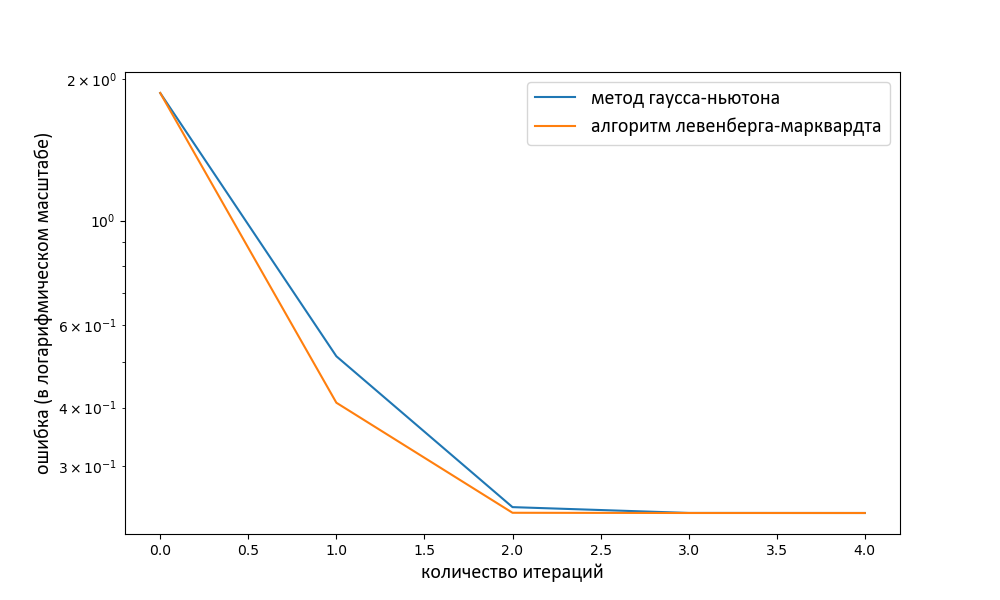
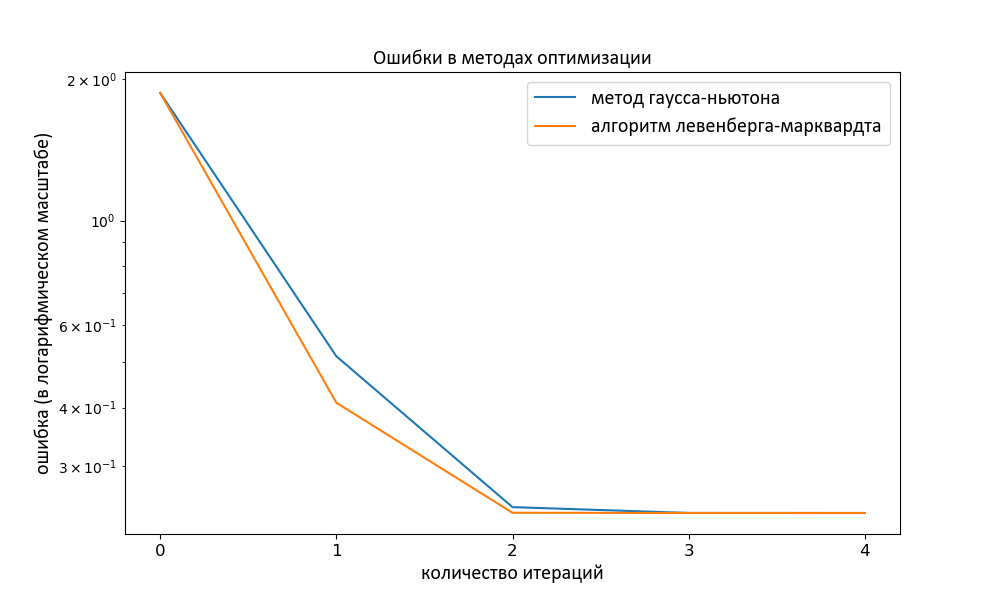
version 2.2 - допилил графики
теперь нет дробных значений на оси итераций и есть тайтлы

diff --git a/cosmology.py b/cosmology.py
@@ -68,6 +68,8 @@ if __name__ == '__main__':
     style_default.set_family(['Calibri', 'Helvetica', 'Arial', 'serif'])
     fig = plt.figure(figsize=(10, 6))
     ax1 = fig.add_subplot(1, 1, 1)
+    plt.title('Модель зависимости модуля расстояния от красного смещения',
+              fontproperties=style_default)
     # если я всё правильно помню, обе оси в безразмерных величинах
     # если вдруг нет, не бейте сильно, это по астрономии пробел
     ax1.set_xlabel('z, красное смещение', fontproperties=style_default)
@@ -82,11 +84,15 @@ if __name__ == '__main__':
 
     fig = plt.figure(figsize=(10, 6))
     ax2 = fig.add_subplot(1, 1, 1)
+    plt.title('Ошибки в методах оптимизации',
+              fontproperties=style_default)
     ax2.set_xlabel('количество итераций', fontproperties=style_default)
     ax2.set_ylabel('ошибка (в логарифмическом масштабе)',
                    fontproperties=style_default)
     gauss, = plt.plot(r_gauss.cost)
     levenberg, = plt.plot(r_lm.cost)
+    plt.xticks(np.arange(0, max(len(r_gauss.cost), len(r_lm.cost)), 1.0),
+               fontsize='large')
     ax2.set_yscale('log')
     gauss.set_label('метод гаусса-ньютона')
     levenberg.set_label('алгоритм левенберга-марквардта')
